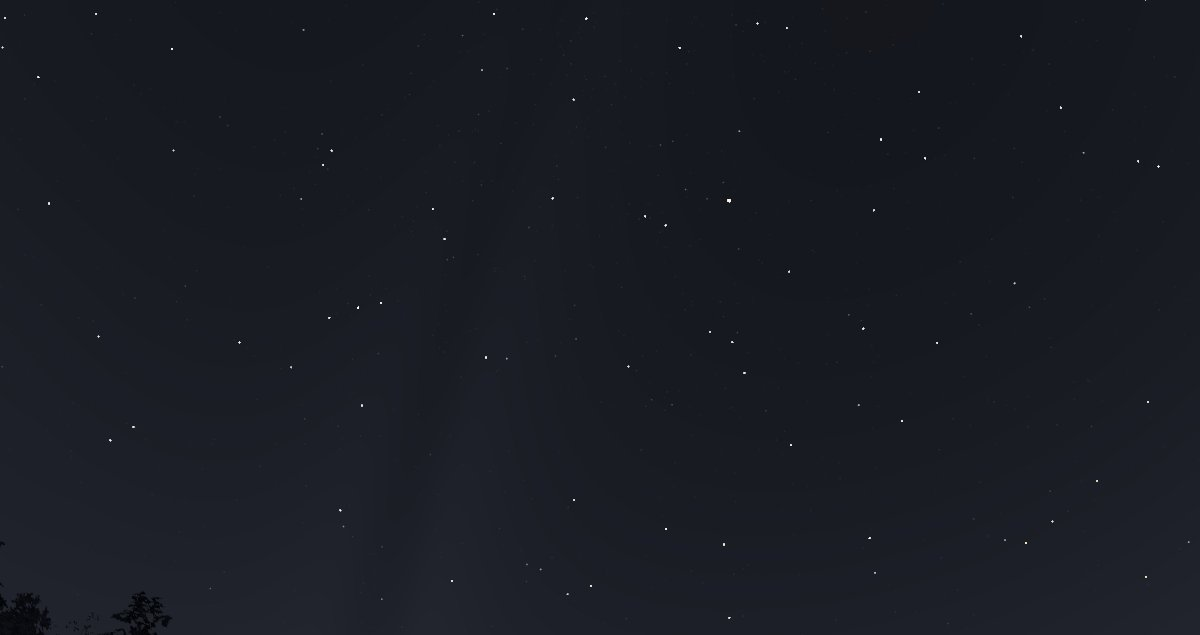
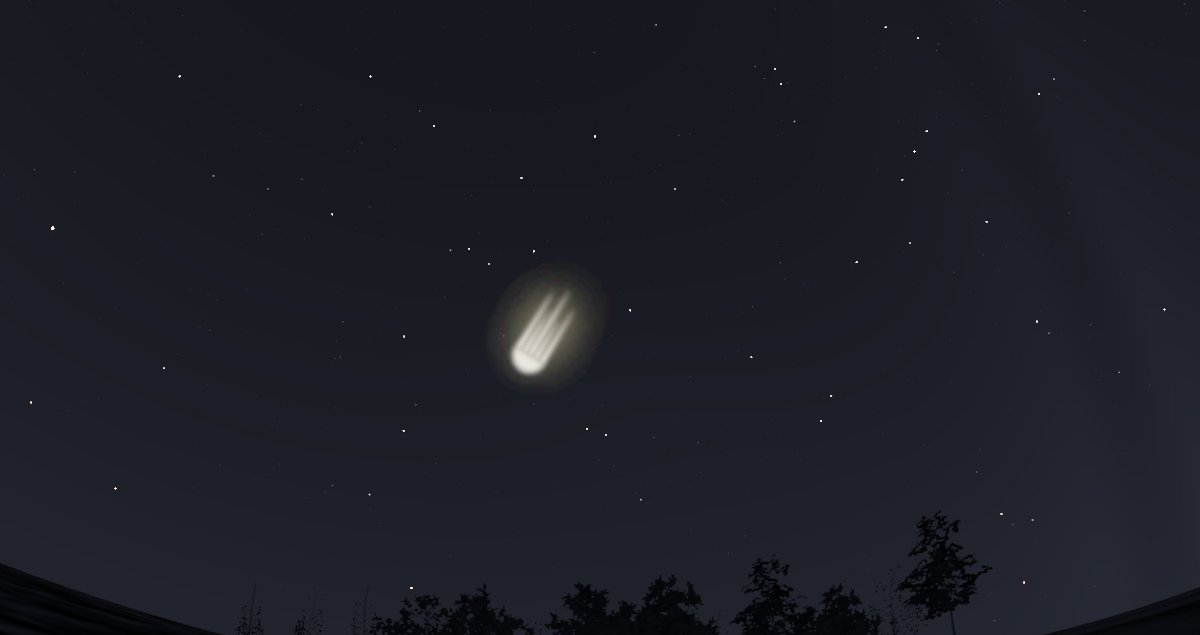
Let a recording say the second its share card is photographed at (summaryTime, 0 by default)
The Saint-Lô card now shows the phenomenon (3.2 s); the two Braine-le-Comte
accounts that begin later say where they begin.

diff --git a/site/content/DocsSharePage.ts b/site/content/DocsSharePage.ts
@@ -283,7 +283,7 @@ embedCopy.addEventListener("click", () => copyFrom(embedCopy, embedMarkup(embedF
       fetched: the card shows the observation's name, its <code>image</code> (an address, absolute or relative to the
       file) and its <code>summary</code> (a sentence or two, as a plain string or one per language). Without a
       <code>summary</code>, the card says who saw it, in which case and when, as far as the file and its address
-      tell; without an <code>image</code>, it shows the logo. A case file takes the same two fields.</p>
+      tell; without an <code>image</code>, it shows the logo. A case file takes the same two fields. <code>summaryTime</code> (seconds) tells the project's capture tool which instant of the simulation to photograph for the <code>image</code>, when the first one does not show the phenomenon.</p>
   </div>
 </section>
 
@@ -396,7 +396,7 @@ embedCopy.addEventListener("click", () => copyFrom(embedCopy, embedMarkup(embedF
       la carte montre le nom de l'observation, son <code>image</code> (une adresse, absolue ou relative au
       fichier) et son <code>summary</code> (une phrase ou deux, en simple texte ou une par langue). Sans
       <code>summary</code>, la carte dit qui l'a vue, dans quel dossier et quand, autant que le fichier et son
-      adresse le disent ; sans <code>image</code>, elle montre le logo. Un fichier de dossier prend les deux mêmes champs.</p>
+      adresse le disent ; sans <code>image</code>, elle montre le logo. Un fichier de dossier prend les deux mêmes champs. <code>summaryTime</code> (secondes) dit à l'outil de capture du projet quel instant de la simulation photographier pour l'<code>image</code>, quand le premier ne montre pas le phénomène.</p>
   </div>
 </section>
 
@@ -511,7 +511,7 @@ embedCopy.addEventListener("click", () => copyFrom(embedCopy, embedMarkup(embedF
       enlace: la tarjeta muestra el nombre de la observación, su <code>image</code> (una dirección, absoluta o
       relativa al archivo) y su <code>summary</code> (una frase o dos, en texto simple o una por idioma). Sin
       <code>summary</code>, la tarjeta dice quién la vio, en qué expediente y cuándo, en la medida en que el
-      archivo y su dirección lo dicen; sin <code>image</code>, muestra el logotipo. Un archivo de expediente admite los dos mismos campos.</p>
+      archivo y su dirección lo dicen; sin <code>image</code>, muestra el logotipo. Un archivo de expediente admite los dos mismos campos. <code>summaryTime</code> (segundos) indica a la herramienta de captura del proyecto qué instante de la simulación fotografiar para la <code>image</code>, cuando el primero no muestra el fenómeno.</p>
   </div>
 </section>
 
@@ -626,7 +626,7 @@ embedCopy.addEventListener("click", () => copyFrom(embedCopy, embedMarkup(embedF
       la scheda mostra il nome dell'osservazione, la sua <code>image</code> (un indirizzo, assoluto o relativo al
       file) e il suo <code>summary</code> (una o due frasi, in testo semplice o una per lingua). Senza
       <code>summary</code>, la scheda dice chi l'ha vista, in quale fascicolo e quando, per quanto il file e il suo
-      indirizzo lo dicono; senza <code>image</code>, mostra il logo. Un file di fascicolo accetta gli stessi due campi.</p>
+      indirizzo lo dicono; senza <code>image</code>, mostra il logo. Un file di fascicolo accetta gli stessi due campi. <code>summaryTime</code> (secondi) dice allo strumento di cattura del progetto quale istante della simulazione fotografare per l'<code>image</code>, quando il primo non mostra il fenomeno.</p>
   </div>
 </section>
 

diff --git a/scripts/share-cards/ShareCards.ts b/scripts/share-cards/ShareCards.ts
@@ -4,8 +4,8 @@
  * instant, written as a JPEG beside the recording.
  *
  * A real frame of the simulation and not an illustration, because that is what the link is to. By
- * default the first one; for a recording whose first moment shows an empty sky, the instant is given
- * below, chosen by looking (`--sheet` writes a few instants of each recording to look at).
+ * default the first one (second 0); for a recording whose first moment shows an empty sky, the instant is the recording's own
+ * `summaryTime` (seconds), chosen by looking (`--sheet` writes a few instants of each recording to look at).
  *
  * Run with (outside the sandbox: Chrome needs its own sockets):
  *   PLAYWRIGHT_MODULE=/path/to/node_modules/playwright-core npx tsx scripts/share-cards/ShareCards.ts
@@ -27,9 +27,6 @@ import path from "node:path"
 import { fileURLToPath } from "node:url"
 import { createServer } from "vite"
 
-/** Where the first image says nothing (an empty sky, the observer's back turned): the second to photograph instead. */
-const INSTANTS: Record<string, number> = {}
-
 class ShareCards {
 
   /** Where the photographs are served from: absolute, so that the copies of a recording on rr0.org say the same. */
@@ -47,6 +44,12 @@ class ShareCards {
   recordings(names: string[]): string[] {
     const all = readdirSync(this.demoData).filter(file => /^observer-.*\.json$/.test(file)).map(file => file.replace(/\.json$/, ""))
     return names.length > 0 ? all.filter(name => names.includes(name)) : all
+  }
+
+  /** The instant the recording asks to be photographed at, in seconds, if it says. */
+  private summaryTime(name: string): number | undefined {
+    const time = JSON.parse(readFileSync(path.join(this.demoData, `${name}.json`), "utf8")).summaryTime
+    return typeof time === "number" ? time : undefined
   }
 
   /** The first and last instants the recording states, in seconds: its keyframes, since a stated duration may come wrapped in its provenance. */
@@ -77,7 +80,7 @@ class ShareCards {
       mkdirSync(out, { recursive: true })
       for (const name of names) {
         const { start, end } = this.span(name)
-        const instants = sheet ? [0, 0.25, 0.5, 0.75].map(fraction => Math.round((start + fraction * (end - start)) * 10) / 10) : [INSTANTS[name] ?? start]
+        const instants = sheet ? [0, 0.25, 0.5, 0.75].map(fraction => Math.round((start + fraction * (end - start)) * 10) / 10) : [this.summaryTime(name) ?? 0]
         for (const seconds of instants) {
           const file = path.join(out, sheet ? `${name}@${seconds}.jpg` : `${name.replace(/^observer-/, "")}.jpg`)
           await this.photograph(browser, origin, name, seconds, file)

diff --git a/src/engine/persistence/sightingJson.ts b/src/engine/persistence/sightingJson.ts
@@ -69,6 +69,8 @@ export interface SightingRecordingJson {
   image?: string
   /** See SightingEvent.summary — what a shared link to this recording says of it. */
   summary?: SaidText
+  /** See SightingEvent.summaryTime — the second the picture of this recording's card is taken at. */
+  summaryTime?: number
   /** See SightingEvent.tags. */
   tags?: string[]
   timeline: TimelineJson
@@ -161,6 +163,7 @@ export function plainSightingJson(sighting: Sighting): SightingRecordingJson {
     description: sighting.event.description,
     image: sighting.event.image,
     summary: sighting.event.summary,
+    summaryTime: sighting.event.summaryTime,
     tags: sighting.event.tags,
     timeline: sighting.timeline.toJSON(),
     observerTrack: sighting.observerTrack.toJSON(),
@@ -206,6 +209,7 @@ function fromPlainSightingJson(json: SightingRecordingJson): Sighting {
       description: json.description,
       image: json.image,
       summary: json.summary,
+      summaryTime: json.summaryTime,
       tags: json.tags
     },
     Timeline.fromJSON(json.timeline, issues),

diff --git a/src/engine/model/Sighting.ts b/src/engine/model/Sighting.ts
@@ -216,6 +216,12 @@ export interface SightingEvent {
    */
   summary?: SaidText
   /**
+   * The second of the recording (from its start) the project's capture tool photographs for `image`, when the first image
+   * is not the one that shows the phenomenon: `summaryTime: 3.2`. Absent, 0: the first image. Read by the tool that makes the
+   * pictures (scripts/share-cards), never by the player.
+   */
+  summaryTime?: number
+  /**
     * Technical keywords, stored in ENGLISH and named for the reader by the components' own
     * messages — "landing" is displayed "atterrissage" to a French reader, and a tag no message
     * knows is displayed as it is stored (see SightingTags).
